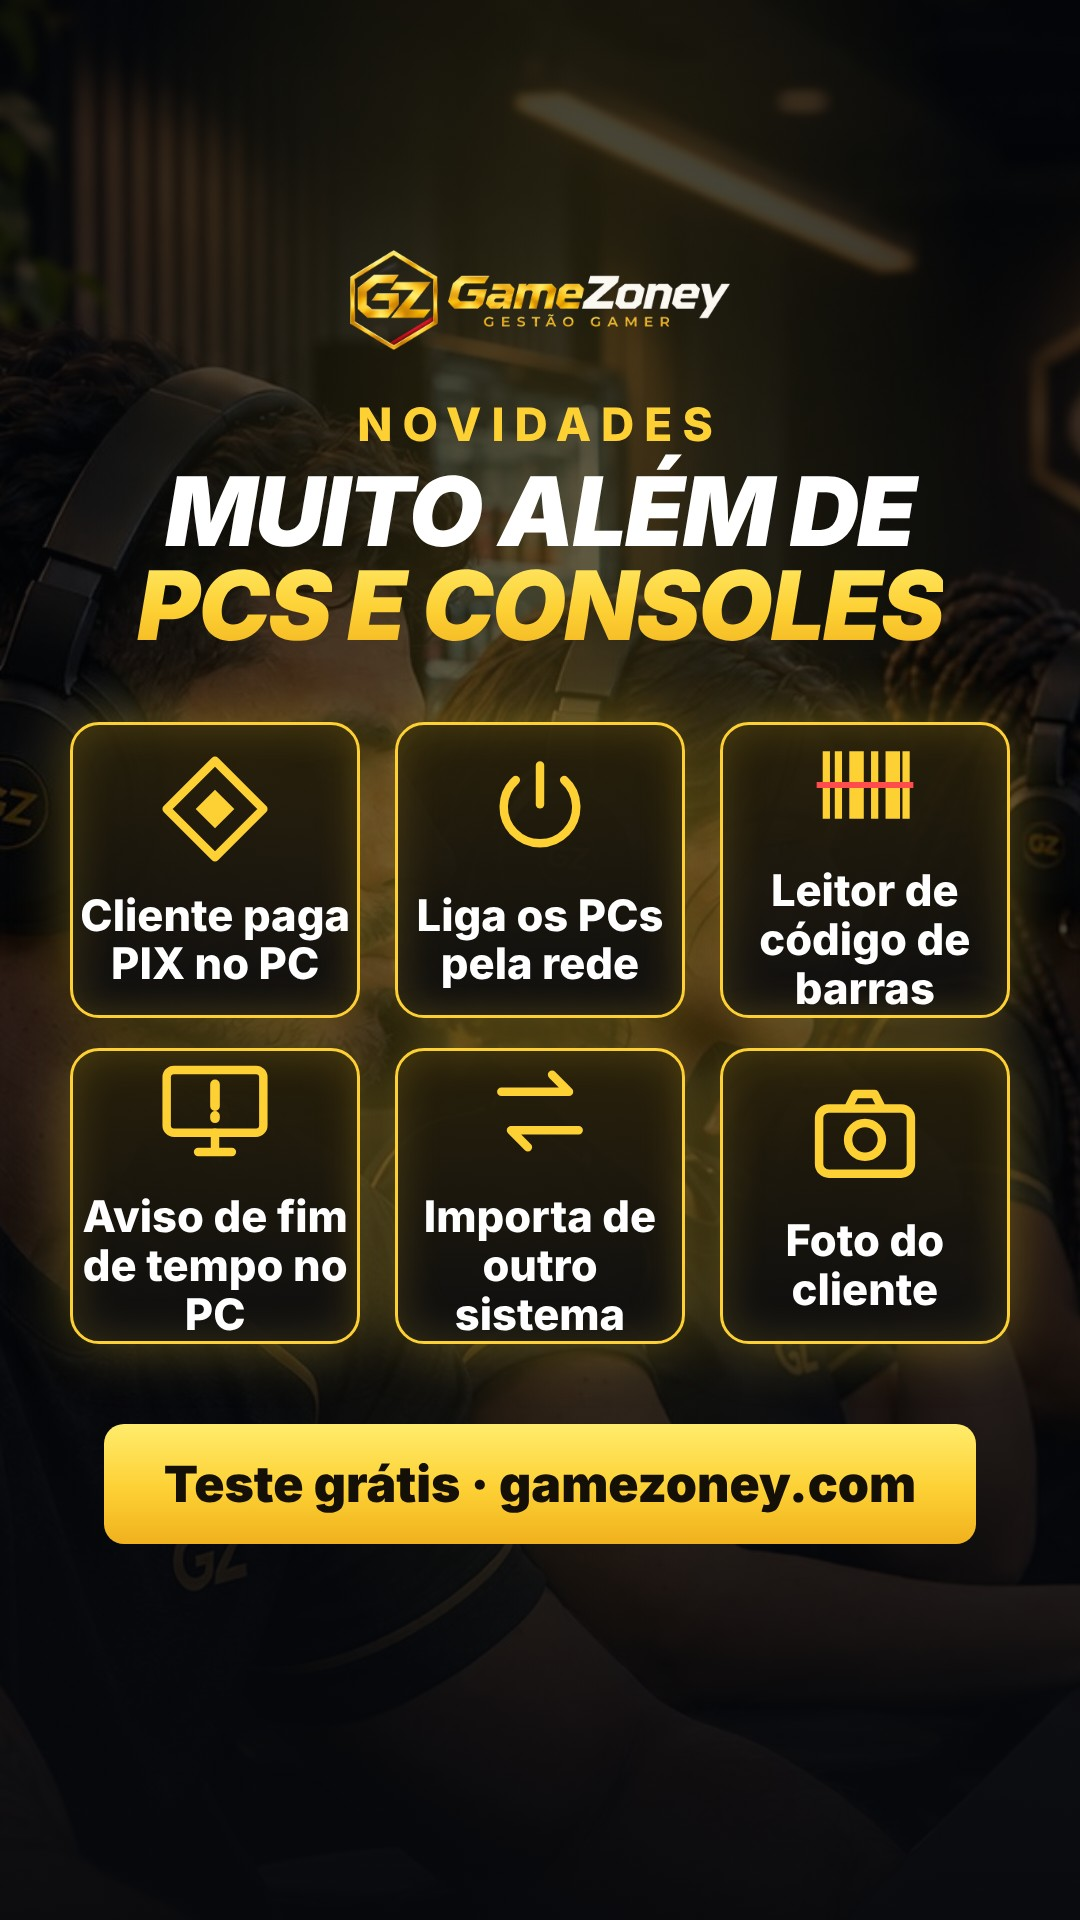
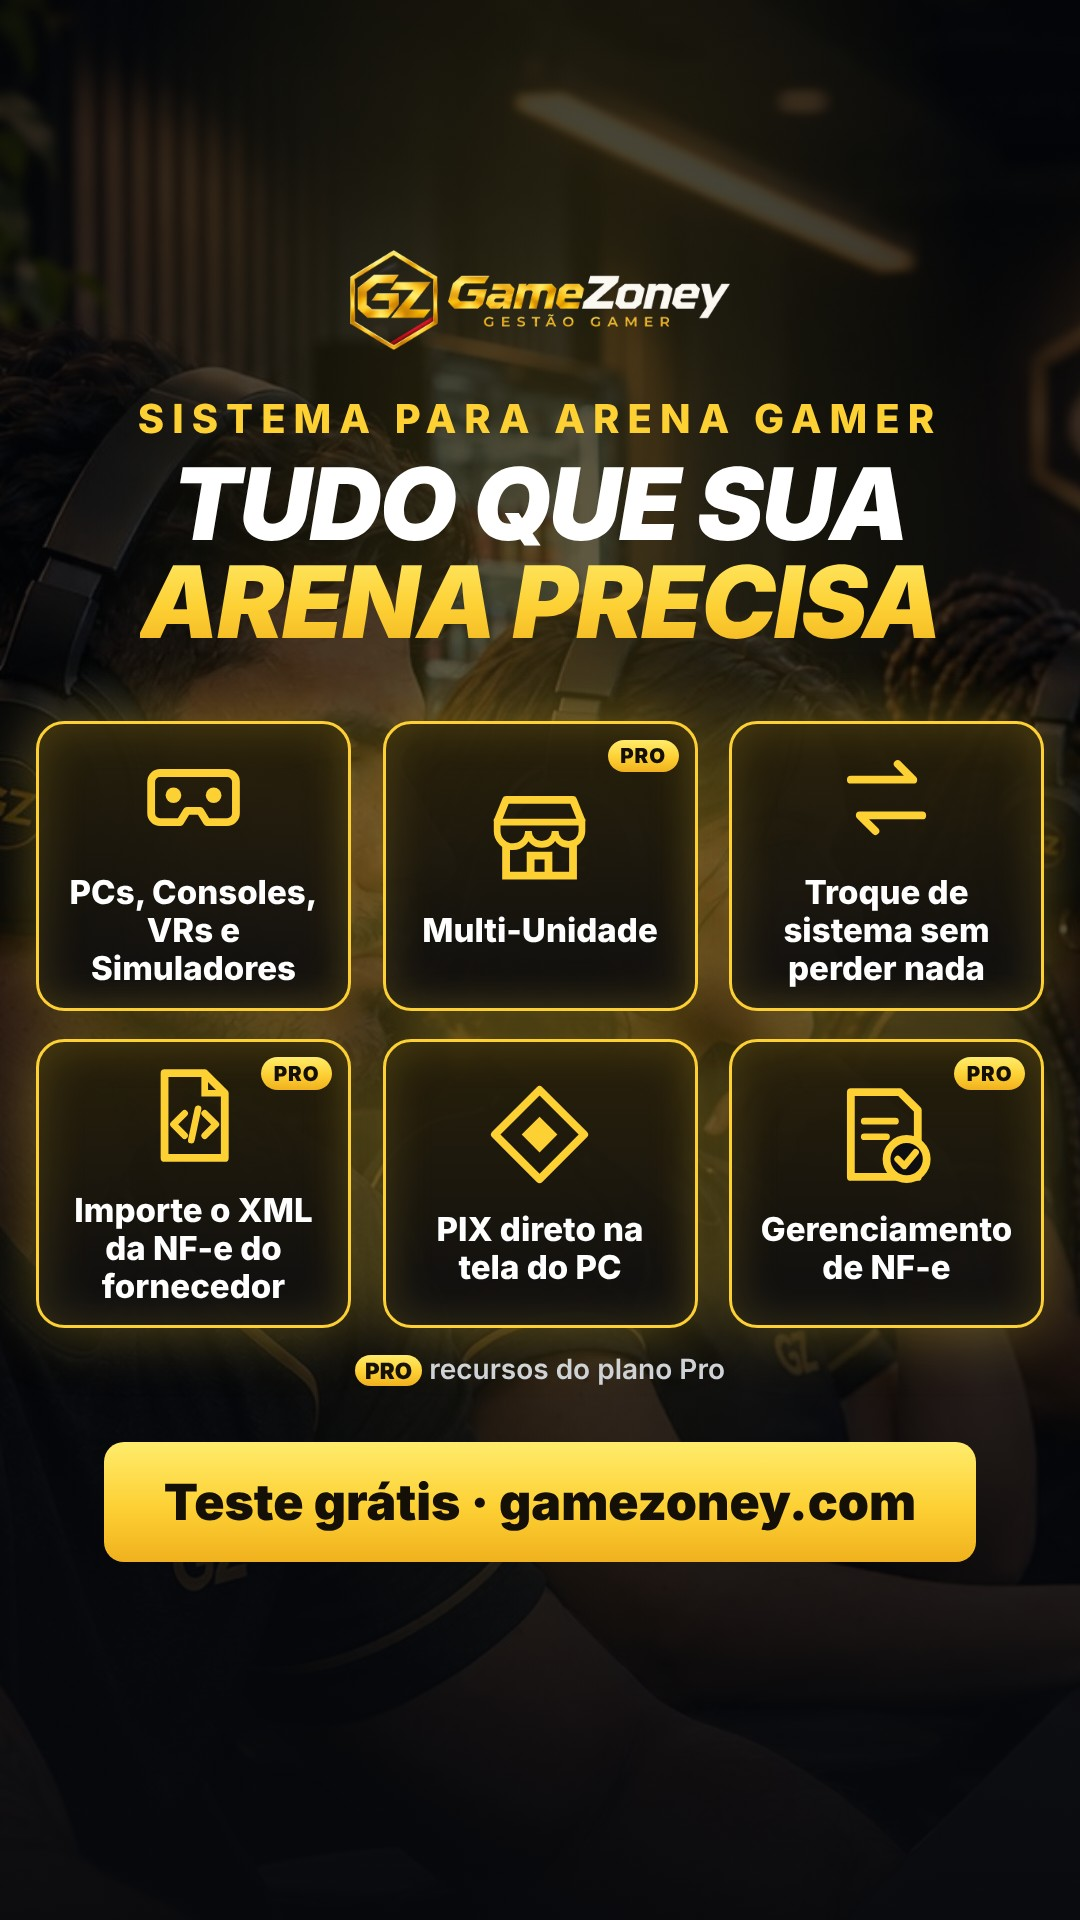
Anúncios: peças 'Tudo que sua arena precisa' (quadrado, vertical 4:5 e 9:16, horizontal) com PCs/consoles/VRs/simuladores, Multi-Unidade, troca de sistema, XML da NF-e, PIX no PC e Gerenciamento de NF-e (selo PRO)
Claude-Session: https://claude.ai/code/session_011pBjUp777QtjBT9w3kkM9L

Changed region(s): [[0.0, 0.375, 0.9778, 0.8125], [0.1222, 0.1875, 0.8861, 0.3438]]

diff --git a/marketing/gerar-anuncios.js b/marketing/gerar-anuncios.js
@@ -24,10 +24,15 @@ const ICON = {
   pix: '<svg viewBox="0 0 48 48"><path d="M24 4 44 24 24 44 4 24z" fill="none" stroke="currentColor" stroke-width="3.5" stroke-linejoin="round"/><path d="M16 24l8-8 8 8-8 8z" fill="currentColor"/></svg>',
   barras: '<svg viewBox="0 0 48 48"><path d="M8 10v28M13 10v28M19 10v28M22 10v28M28 10v28M34 10v28M37 10v28M41 10v28" stroke="currentColor" stroke-width="3"/><path d="M4 24h40" stroke="#ff4d4d" stroke-width="2.5"/></svg>',
   aviso: '<svg viewBox="0 0 48 48"><rect x="4" y="7" width="40" height="26" rx="3" fill="none" stroke="currentColor" stroke-width="3.5"/><path d="M17 41h14M24 33v8" stroke="currentColor" stroke-width="3.5" stroke-linecap="round"/><path d="M24 13v9M24 26v1" stroke="currentColor" stroke-width="4" stroke-linecap="round"/></svg>',
+  vr: '<svg viewBox="0 0 48 48"><path d="M5 17a4 4 0 0 1 4-4h30a4 4 0 0 1 4 4v14a4 4 0 0 1-4 4h-9l-3-5h-6l-3 5H9a4 4 0 0 1-4-4z" fill="none" stroke="currentColor" stroke-width="3.5" stroke-linejoin="round"/><circle cx="15" cy="23" r="3.5" fill="currentColor"/><circle cx="33" cy="23" r="3.5" fill="currentColor"/></svg>',
+  xml: '<svg viewBox="0 0 48 48"><path d="M11 5h18l9 9v29H11z" fill="none" stroke="currentColor" stroke-width="3.5" stroke-linejoin="round"/><path d="M29 5v9h9" fill="none" stroke="currentColor" stroke-width="3"/><path d="M20 23l-5 5 5 5M29 23l5 5-5 5M26 21l-3 14" fill="none" stroke="currentColor" stroke-width="3" stroke-linecap="round" stroke-linejoin="round"/></svg>',
+  nfe: '<svg viewBox="0 0 48 48"><path d="M8 5h22l8 8v30H8z" fill="none" stroke="currentColor" stroke-width="3.5" stroke-linejoin="round"/><path d="M14 18h14M14 25h10" stroke="currentColor" stroke-width="3" stroke-linecap="round"/><circle cx="33" cy="35" r="9" fill="#0e0e10" stroke="currentColor" stroke-width="3.5"/><path d="M29 35l3 3 5-6" fill="none" stroke="currentColor" stroke-width="3" stroke-linecap="round" stroke-linejoin="round"/></svg>',
   wifi: '<svg viewBox="0 0 48 48"><path d="M6 18a26 26 0 0 1 36 0M12 25a17 17 0 0 1 24 0M18 32a8 8 0 0 1 12 0" fill="none" stroke="currentColor" stroke-width="3.5" stroke-linecap="round"/><circle cx="24" cy="39" r="3" fill="currentColor"/></svg>'
 };
-// 2026-11-10 (Servidor 1.2.8): só recursos liberados no teste grátis (impressão, NF-e e várias lojas dependem do plano: peças *-planos)
-const NOVAS = [['pix', 'Cliente paga<br>PIX no PC'], ['power', 'Liga os PCs<br>pela rede'], ['barras', 'Leitor de<br>código de barras'], ['aviso', 'Aviso de fim<br>de tempo no PC'], ['troca', 'Importa de<br>outro sistema'], ['foto', 'Foto do<br>cliente']];
+// 2026-11-10 (pedido do dono): recursos em destaque; pro = selo PRO (o teste grátis não libera NF-e nem Multi-Unidade)
+const NOVAS = [['vr', 'PCs, Consoles,<br>VRs e<br>Simuladores'], ['lojas', 'Multi-Unidade', true], ['troca', 'Troque de<br>sistema sem<br>perder nada'], ['xml', 'Importe o XML<br>da NF-e do<br>fornecedor', true], ['pix', 'PIX direto na<br>tela do PC'], ['nfe', 'Gerenciamento<br>de NF-e', true]];
+const box = (list, size, fs = .105) => `<div style="display:flex;gap:${size * .1}px;justify-content:center">${list.map(([i, t, pro]) => `<div style="position:relative;width:${size}px;height:${size * .92}px;border-radius:${size * .09}px;border:3px solid #FDD034;background:linear-gradient(180deg,rgba(40,32,10,.92),rgba(14,14,16,.94));box-shadow:0 0 ${size * .2}px rgba(253,208,52,.35),inset 0 0 ${size * .15}px rgba(253,208,52,.18);display:flex;flex-direction:column;align-items:center;justify-content:center;gap:${size * .07}px;padding:0 ${size * .05}px">${pro ? `<div style="position:absolute;top:${size * .05}px;right:${size * .05}px;padding:${size * .012}px ${size * .04}px;border-radius:99px;background:${GOLD};color:#141008;font-size:${size * .065}px;font-weight:900;letter-spacing:1px">PRO</div>` : ''}<div style="width:${size * .34}px;height:${size * .34}px;color:#FDD034">${ICON[i]}</div><div style="font-weight:800;font-size:${size * fs}px;line-height:1.15;text-align:center;color:#fff;white-space:nowrap">${t}</div></div>`).join('')}</div>`;
+const proNote = fs => `<div style="font-size:${fs}px;color:#cfd3da;font-weight:600"><span style="padding:2px 10px;border-radius:99px;background:${GOLD};color:#141008;font-weight:900;font-size:${fs * .8}px">PRO</span> recursos do plano Pro</div>`;
 // planos (preços padrão de site/plans.js — conferir no /admin › Planos antes de anunciar)
 const PLANOS = [
   {nome: 'Free', preco: 'Grátis', obs: '30 dias', itens: ['Funções essenciais', 'PIX no PC', 'PCs e consoles ilimitados', 'Sem cartão']},
@@ -63,30 +68,34 @@ const PECAS = {
     <div style="margin-top:14px;font-size:42px;font-weight:600;color:#e7eaf0">Lan Houses e Cyber cafés</div>
     <div style="position:absolute;bottom:64px;left:0;right:0">${tiles(TILES, 215)}</div></div>`],
   // 2026-11: NOVIDADES (Servidor 1.0.9 / Cliente 1.0.7) — feed, story, quadrado e paisagem
-  'feed-1080x1350-novidades': [1080, 1350, `<div style="position:absolute;inset:0;padding:70px 60px;display:flex;flex-direction:column;align-items:center">
-    <img src="${logo}" style="width:330px"><div style="margin-top:40px;font-size:40px;font-weight:800;letter-spacing:8px;color:#FDD034">NOVIDADES</div>
-    <div style="margin-top:10px;font-size:84px;font-weight:900;font-style:italic;line-height:.98;text-align:center;letter-spacing:-2px">MUITO ALÉM DE<br><span class="g">PCS E CONSOLES</span></div>
-    <div style="margin-top:56px">${tiles(NOVAS.slice(0, 3), 270)}</div><div style="margin-top:26px">${tiles(NOVAS.slice(3), 270)}</div>
-    <div style="position:absolute;bottom:70px;left:60px;right:60px;display:flex;align-items:center;justify-content:space-between"><div style="padding:26px 40px;border-radius:16px;background:${GOLD};color:#141008;font-size:40px;font-weight:900">Teste grátis 30 dias</div><div style="font-size:38px;font-weight:800">gamezoney.com</div></div></div>`],
+  'feed-1080x1350-novidades': [1080, 1350, `<div style="position:absolute;inset:0;padding:66px 50px;display:flex;flex-direction:column;align-items:center">
+    <img src="${logo}" style="width:320px"><div style="margin-top:34px;font-size:38px;font-weight:800;letter-spacing:8px;color:#FDD034">SISTEMA PARA ARENA GAMER</div>
+    <div style="margin-top:10px"><div style="font-size:86px;font-weight:900;font-style:italic;line-height:.98;text-align:center;letter-spacing:-2px">TUDO QUE SUA<br><span class="g">ARENA PRECISA</span></div></div>
+    <div style="margin-top:46px">${box(NOVAS.slice(0, 3), 300)}</div><div style="margin-top:24px">${box(NOVAS.slice(3), 300)}</div>
+    <div style="margin-top:20px">${proNote(26)}</div>
+    <div style="position:absolute;bottom:60px;left:60px;right:60px;display:flex;align-items:center;justify-content:space-between"><div style="padding:24px 38px;border-radius:16px;background:${GOLD};color:#141008;font-size:38px;font-weight:900">Teste grátis 30 dias</div><div style="font-size:38px;font-weight:800">gamezoney.com</div></div></div>`],
   'feed-1080x1350-troca-sistema': [1080, 1350, `<div style="position:absolute;inset:0;padding:80px 70px">
     <img src="${logo}" style="width:300px"><div style="margin-top:70px;font-size:56px;font-weight:700;color:#e7eaf0">Vai trocar de sistema?</div>
     <div style="margin-top:14px;font-size:100px;font-weight:900;font-style:italic;line-height:.98;letter-spacing:-2px">TRAGA SEUS<br><span class="g">CLIENTES.</span></div>
     <div style="margin-top:40px;font-size:40px;line-height:1.35;color:#e7eaf0;max-width:900px">Importe nick, tempo e medalhas de fidelidade do seu sistema atual em poucos minutos, por planilha. Nenhum cliente fica para trás.</div>
     <div style="position:absolute;right:70px;top:320px;width:200px;height:200px;color:#FDD034;filter:drop-shadow(0 0 30px rgba(253,208,52,.6))">${ICON.troca}</div>
     <div style="position:absolute;bottom:80px;left:70px;right:70px;display:flex;align-items:center;justify-content:space-between"><div style="padding:30px 46px;border-radius:18px;background:${GOLD};color:#141008;font-size:44px;font-weight:900">Teste grátis 30 dias</div><div style="font-size:40px;font-weight:800">gamezoney.com</div></div></div>`],
-  'story-1080x1920-novidades': [1080, 1920, `<div style="position:absolute;inset:0;padding:250px 60px 0;display:flex;flex-direction:column;align-items:center">
-    <img src="${logo}" style="width:380px"><div style="margin-top:46px;font-size:46px;font-weight:800;letter-spacing:10px;color:#FDD034">NOVIDADES</div>
-    <div style="margin-top:12px;font-size:96px;font-weight:900;font-style:italic;line-height:.98;text-align:center;letter-spacing:-2px">MUITO ALÉM DE<br><span class="g">PCS E CONSOLES</span></div>
-    <div style="margin-top:70px">${tiles(NOVAS.slice(0, 3), 290)}</div><div style="margin-top:30px">${tiles(NOVAS.slice(3), 290)}</div>
-    <div style="margin-top:80px;padding:30px 60px;border-radius:20px;background:${GOLD};color:#141008;font-size:50px;font-weight:900">Teste grátis · gamezoney.com</div></div>`],
-  'quadrado-1080x1080-novidades': [1080, 1080, `<div style="position:absolute;inset:0;padding:56px 60px;display:flex;flex-direction:column;align-items:center">
-    <img src="${logo}" style="width:300px"><div style="margin-top:30px;font-size:74px;font-weight:900;font-style:italic;line-height:.98;text-align:center;letter-spacing:-2px">MUITO ALÉM DE<br><span class="g">PCS E CONSOLES</span></div>
-    <div style="margin-top:44px">${tiles(NOVAS.slice(0, 3), 245)}</div><div style="margin-top:22px">${tiles(NOVAS.slice(3), 245)}</div></div>`],
-  'paisagem-1200x628-novidades': [1200, 628, `<div style="position:absolute;inset:0;padding:46px 56px">
-    <img src="${logo}" style="width:240px"><div style="margin-top:24px;font-size:30px;font-weight:800;letter-spacing:6px;color:#FDD034">NOVIDADES</div>
-    <div style="margin-top:8px;font-size:62px;font-weight:900;font-style:italic;line-height:.98;letter-spacing:-1.5px">MUITO ALÉM DE<br><span class="g">PCS E CONSOLES</span></div>
-    <div style="margin-top:26px;display:inline-block;padding:15px 28px;border-radius:12px;background:${GOLD};color:#141008;font-size:27px;font-weight:900">Teste grátis 30 dias</div>
-    <div style="position:absolute;right:46px;top:70px;display:flex;flex-direction:column;gap:16px">${tiles(NOVAS.slice(0, 3), 150)}${tiles(NOVAS.slice(3), 150)}</div></div>`],
+  'story-1080x1920-novidades': [1080, 1920, `<div style="position:absolute;inset:0;padding:250px 40px 0;display:flex;flex-direction:column;align-items:center">
+    <img src="${logo}" style="width:380px"><div style="margin-top:44px;font-size:40px;font-weight:800;letter-spacing:8px;color:#FDD034">SISTEMA PARA ARENA GAMER</div>
+    <div style="margin-top:12px"><div style="font-size:100px;font-weight:900;font-style:italic;line-height:.98;text-align:center;letter-spacing:-2px">TUDO QUE SUA<br><span class="g">ARENA PRECISA</span></div></div>
+    <div style="margin-top:70px">${box(NOVAS.slice(0, 3), 315)}</div><div style="margin-top:28px">${box(NOVAS.slice(3), 315)}</div>
+    <div style="margin-top:24px">${proNote(28)}</div>
+    <div style="margin-top:56px;padding:30px 60px;border-radius:20px;background:${GOLD};color:#141008;font-size:50px;font-weight:900">Teste grátis · gamezoney.com</div></div>`],
+  'quadrado-1080x1080-novidades': [1080, 1080, `<div style="position:absolute;inset:0;padding:48px 50px;display:flex;flex-direction:column;align-items:center">
+    <img src="${logo}" style="width:270px"><div style="margin-top:22px"><div style="font-size:70px;font-weight:900;font-style:italic;line-height:.98;text-align:center;letter-spacing:-2px">TUDO QUE SUA<br><span class="g">ARENA PRECISA</span></div></div>
+    <div style="margin-top:34px">${box(NOVAS.slice(0, 3), 290)}</div><div style="margin-top:20px">${box(NOVAS.slice(3), 290)}</div>
+    <div style="position:absolute;bottom:40px;left:56px;right:56px;display:flex;align-items:center;justify-content:space-between">${proNote(24)}<div style="font-size:32px;font-weight:800">gamezoney.com</div></div></div>`],
+  'paisagem-1200x628-novidades': [1200, 628, `<div style="position:absolute;inset:0;padding:44px 50px">
+    <img src="${logo}" style="width:230px"><div style="margin-top:22px;font-size:20px;font-weight:800;letter-spacing:2px;color:#FDD034">SISTEMA PARA ARENA GAMER</div>
+    <div style="margin-top:8px;font-size:56px;font-weight:900;font-style:italic;line-height:.98;letter-spacing:-1.5px">TUDO QUE SUA<br><span class="g">ARENA PRECISA</span></div>
+    <div style="margin-top:24px;display:inline-block;padding:14px 26px;border-radius:12px;background:${GOLD};color:#141008;font-size:26px;font-weight:900">Teste grátis 30 dias</div>
+    <div style="margin-top:22px">${proNote(19)}</div>
+    <div style="position:absolute;right:36px;top:60px;display:flex;flex-direction:column;gap:16px">${box(NOVAS.slice(0, 3), 205)}${box(NOVAS.slice(3), 205)}</div></div>`],
   // 2026-11-10: PLANOS (Free / Standard / Pro) — o que cada um libera
   'feed-1080x1350-planos': [1080, 1350, `<div style="position:absolute;inset:0;padding:70px 50px;display:flex;flex-direction:column;align-items:center">
     <img src="${logo}" style="width:330px"><div style="margin-top:40px;font-size:40px;font-weight:800;letter-spacing:8px;color:#FDD034">PLANOS</div>

diff --git a/marketing/ANUNCIOS-PASSO-A-PASSO.md b/marketing/ANUNCIOS-PASSO-A-PASSO.md
@@ -9,7 +9,7 @@ Confidencial (uso interno). As peças prontas estão em `marketing/anuncios/`.
 | `gamezoney-story-1080x1920.jpg` | Stories, Reels, Status do WhatsApp |
 | `gamezoney-quadrado-1080x1080.jpg` | Facebook, Google (Display e Performance Max) |
 | `gamezoney-paisagem-1200x628.jpg` | Google (Display), link do Facebook |
-| `gamezoney-feed-1080x1350-novidades.jpg` | Feed — novidades liberadas no teste grátis (PIX no PC, liga PCs, leitor de código de barras, aviso de fim de tempo, importação, foto) |
+| `gamezoney-feed-1080x1350-novidades.jpg` | **Vertical 4:5** — feed do Instagram, Facebook e Threads — "Tudo que sua arena precisa" (PCs/consoles/VRs/simuladores, Multi-Unidade PRO, troca de sistema, XML da NF-e PRO, PIX no PC, Gerenciamento de NF-e PRO) |
 | `gamezoney-feed-1080x1350-planos.jpg` | Feed — planos Free / Standard / Pro com preço e o que cada um libera |
 | `gamezoney-story-1080x1920-planos.jpg` | Stories, Reels, Status do WhatsApp — planos |
 | `gamezoney-quadrado-1080x1080-planos.jpg` | Facebook, Google (Display e Performance Max) — planos |
@@ -17,9 +17,9 @@ Confidencial (uso interno). As peças prontas estão em `marketing/anuncios/`.
 | `gamezoney-feed-1080x1350-pix.jpg` | Feed — PIX no PC ("Pagou no PIX, já joga") |
 | `gamezoney-story-1080x1920-pix.jpg` | Stories, Reels, Status do WhatsApp — PIX no PC |
 | `gamezoney-feed-1080x1350-troca-sistema.jpg` | Feed — para quem já usa outro sistema ("Traga seus clientes") |
-| `gamezoney-story-1080x1920-novidades.jpg` | Stories, Reels, Status do WhatsApp — novidades |
-| `gamezoney-quadrado-1080x1080-novidades.jpg` | Facebook, Google (Display e Performance Max) — novidades |
-| `gamezoney-paisagem-1200x628-novidades.jpg` | Google (Display), link do Facebook — novidades |
+| `gamezoney-story-1080x1920-novidades.jpg` | **Vertical 9:16** — Stories, Reels, Status — "Tudo que sua arena precisa" |
+| `gamezoney-quadrado-1080x1080-novidades.jpg` | **Quadrado 1:1** — feed do Instagram, Facebook e Threads, Google — "Tudo que sua arena precisa" |
+| `gamezoney-paisagem-1200x628-novidades.jpg` | **Horizontal 1,91:1** — feed do Facebook e Threads, coluna da direita, Google — "Tudo que sua arena precisa" |
 | `gamezoney-logo-quadrado-1200x1200.png` | Logotipo quadrado (Google Ads, foto do perfil) |
 | `gamezoney-logo-horizontal-1200x300.png` | Logotipo horizontal 4:1 (Google Ads) |
 
@@ -66,15 +66,15 @@ No próprio Instagram, publique a peça `feed-1080x1350-recursos` com a legenda 
 ---
 
 ### Campanha "Novidades" e "Troca de sistema" (nov/2026)
-- **Novidades** (peças `*-novidades`, atualizadas em 10/11/2026): texto principal: *No GameZoney o cliente paga o PIX direto no PC, você liga os PCs pela rede, vende pelo leitor de código de barras e o PC avisa quando o tempo está acabando. Teste grátis por 30 dias.* — Título: *Muito além de PCs e consoles*.
-- **Atenção (desde a 1.2.8):** o teste grátis não libera Controle de impressão, Nota fiscal (NF-e), Várias lojas (Multi-Unidade) nem Gerenciar App. Não anuncie esses recursos junto com "Teste grátis": eles aparecem só nas peças de **Planos** (impressão = Standard e Pro; NF-e, várias lojas e app = Pro).
+- **Tudo que sua arena precisa** (peças `*-novidades`, refeitas em 10/11/2026 a pedido do dono): texto principal: *PCs, consoles, VRs e simuladores em um só sistema. Troque de sistema sem perder nada, receba PIX direto na tela do PC e, no plano Pro, importe o XML da NF-e do fornecedor, gerencie suas notas e acompanhe todas as unidades. Teste grátis por 30 dias.* — Título: *Tudo que sua arena precisa*. Use as 4 peças no mesmo anúncio (Meta: **Personalizar posicionamentos** › quadrado/4:5 no feed, 9:16 em Stories/Reels/Status, horizontal na coluna da direita e em Resultados de pesquisa) com Instagram, Facebook e Threads marcados.
+- **Atenção (desde a 1.2.8):** o teste grátis não libera Controle de impressão, NF-e, Multi-Unidade nem Gerenciar App. Por isso, nas peças com "Teste grátis", esses recursos levam o selo **PRO** e a nota "recursos do plano Pro" (não tire o selo: sem ele o anúncio promete algo que o teste não entrega). No texto do anúncio, cite NF-e e Multi-Unidade sempre com "no plano Pro".
 
 ### Campanha "Planos" e "PIX no PC" (nov/2026)
 - **Planos** (peças `*-planos`): texto principal: *Comece grátis por 30 dias. Standard por R$ 29,90/mês com todas as funções, PIX no PC e controle de impressão. Pro por R$ 129,90/mês com nota fiscal (NF-e), várias lojas no celular e app personalizado.* — Título: *Escolha o seu plano*. **Antes de publicar, confira os preços em /admin › Planos**: as peças usam os preços padrão (R$ 29,90 e R$ 129,90); se mudar no site, mude `PLANOS` em `gerar-anuncios.js` e rode `node marketing/gerar-anuncios.js`.
 - **PIX no PC** (peças `*-pix`): texto principal: *Chega de fila no balcão: o cliente cria a conta e paga pelo PIX direto no PC. Pagamento aprovado, o tempo entra sozinho. Em todos os planos, inclusive no teste grátis.* — Título: *Pagou no PIX, já joga*. Não use o logotipo oficial do PIX (o ícone da peça é genérico).
 - **Troca de sistema** (peça `feed-1080x1350-troca-sistema`): texto principal: *Vai trocar de sistema? Importe nick, tempo e medalhas de fidelidade dos seus clientes por planilha, em poucos minutos. Nenhum cliente fica para trás.* — Título: *Traga seus clientes para o GameZoney*. Público: interesses de *Lan house* e *Pequenas empresas*.
 - **Não cite outras marcas** (nomes de outros sistemas) no texto ou na imagem do anúncio: Google e Meta podem reprovar por uso de marca de terceiros. Os nomes aparecem só nas Dúvidas frequentes do site.
-- No Google Performance Max, acrescente as peças `quadrado-1080x1080-novidades` e `paisagem-1200x628-novidades` ao mesmo grupo de recursos (não precisa criar campanha nova) e os títulos: *Cliente Paga PIX no PC* · *Liga os PCs pela Rede* · *Leitor de Código de Barras* · *Troque de Sistema Fácil*. Acrescente também as peças `*-planos` com os títulos *Planos a partir de R$ 29,90* · *Comece Grátis por 30 Dias*.
+- No Google Performance Max, acrescente as peças `quadrado-1080x1080-novidades` e `paisagem-1200x628-novidades` ao mesmo grupo de recursos (não precisa criar campanha nova) e os títulos: *PCs, Consoles, VRs e Simuladores* · *PIX Direto na Tela do PC* · *Troque de Sistema sem Perder Nada* · *NF-e e Multi-Unidade no Pro*. Acrescente também as peças `*-planos` com os títulos *Planos a partir de R$ 29,90* · *Comece Grátis por 30 Dias*.
 
 ## 2. WhatsApp
 
